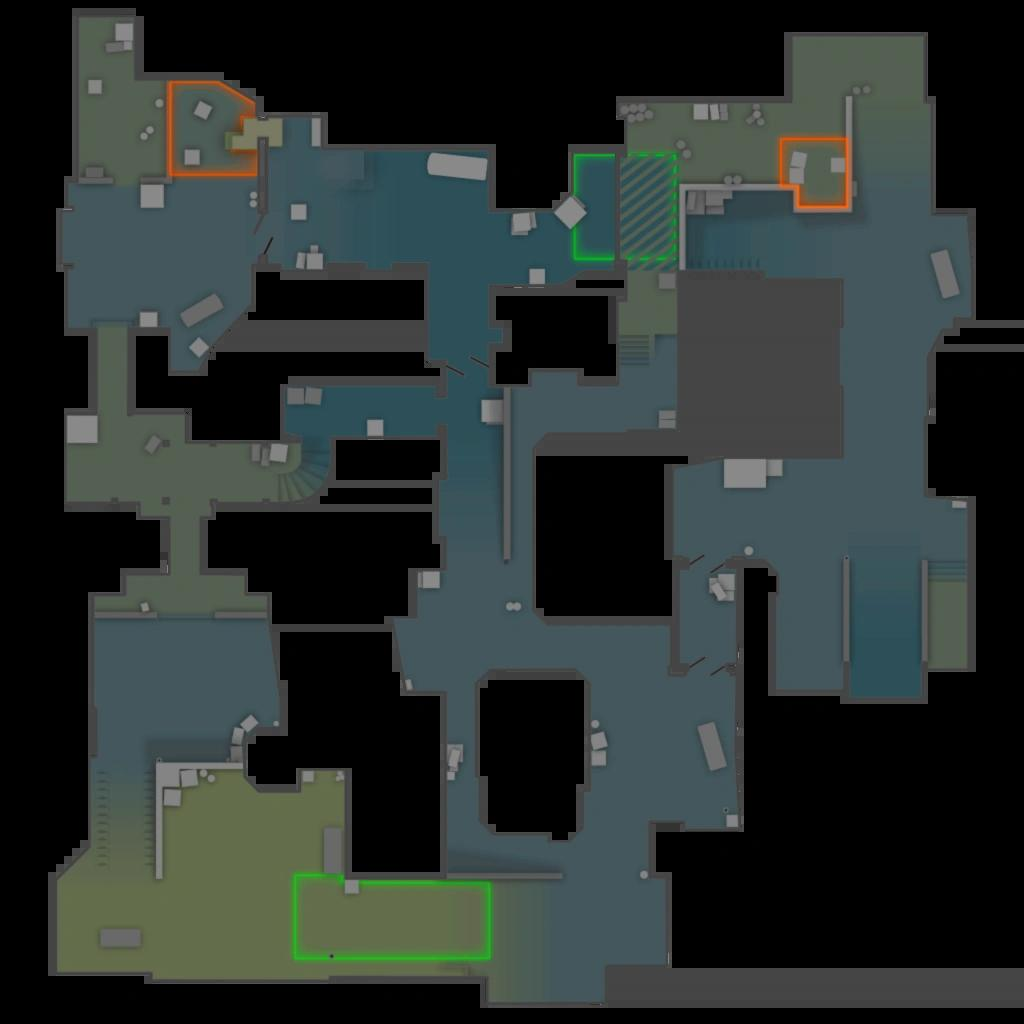
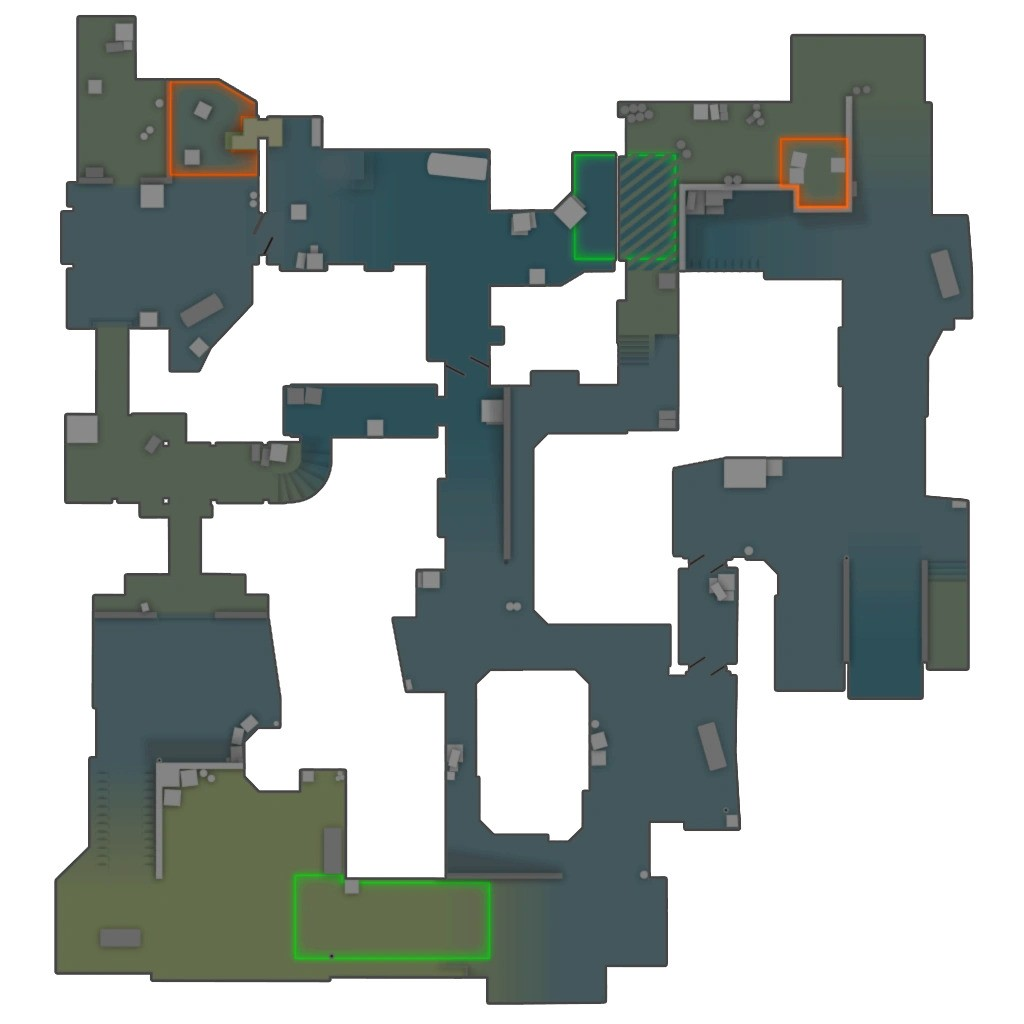
css changes

diff --git a/client/src/routes/Dust2.jsx b/client/src/routes/Dust2.jsx
@@ -3,7 +3,7 @@ import { TransformWrapper,
     TransformComponent } from "react-zoom-pan-pinch"
 import ToolBar from "../components/Toolbar"
 import Smoke from "../components/Smoke"
-import dust2 from "../../../maps/dust2.jpg"
+import dust2 from "../../../maps/dust2.png"
 import NavBar from "../components/NavBar"
 import Origin from "../components/Origin"
 
@@ -16,7 +16,7 @@ function Dust2() {
         <NavBar />
         <ToolBar /> 
         <TransformWrapper doubleClick={{disabled: true}}>
-            <TransformComponent>
+            <TransformComponent wrapperStyle={{margin: "auto"}}>
                 <img src={dust2}></img>
                 <Smoke left={210} top={200} name={"bdoor"}/>
                 <Smoke left={80} top={280} name={"tunnel1"}/>

diff --git a/client/src/index.css b/client/src/index.css
@@ -1,3 +1,28 @@
+body {
+  background-color: #212121;
+}
+
+h1 {
+  border-bottom: solid 1px gray;
+  margin: auto;
+  width: fit-content;
+  text-align: center;
+}
+
+h1:hover {
+  cursor: pointer;;
+}
+
+h1::before {
+  content: "CS";
+  color: rgb(255, 183, 50);
+}
+
+h1::after {
+  content: "util";
+  color: rgb(50, 78, 172);
+}
+
 img {
   height: 900px;
   width: 900px;
@@ -5,6 +30,10 @@ img {
 
 .toolbar {
   margin-bottom: 10px;
+}
+
+.toolbar label {
+  color: white;
 }
 
 #smoke {

diff --git a/client/src/components/NavBar.jsx b/client/src/components/NavBar.jsx
@@ -13,7 +13,7 @@ function NavBar() {
 
     return(
         <div className="navbar">
-            <h1 onClick={handleReturn}>CSutil</h1>
+            <h1 onClick={handleReturn}></h1>
         </div>
     )
 }
